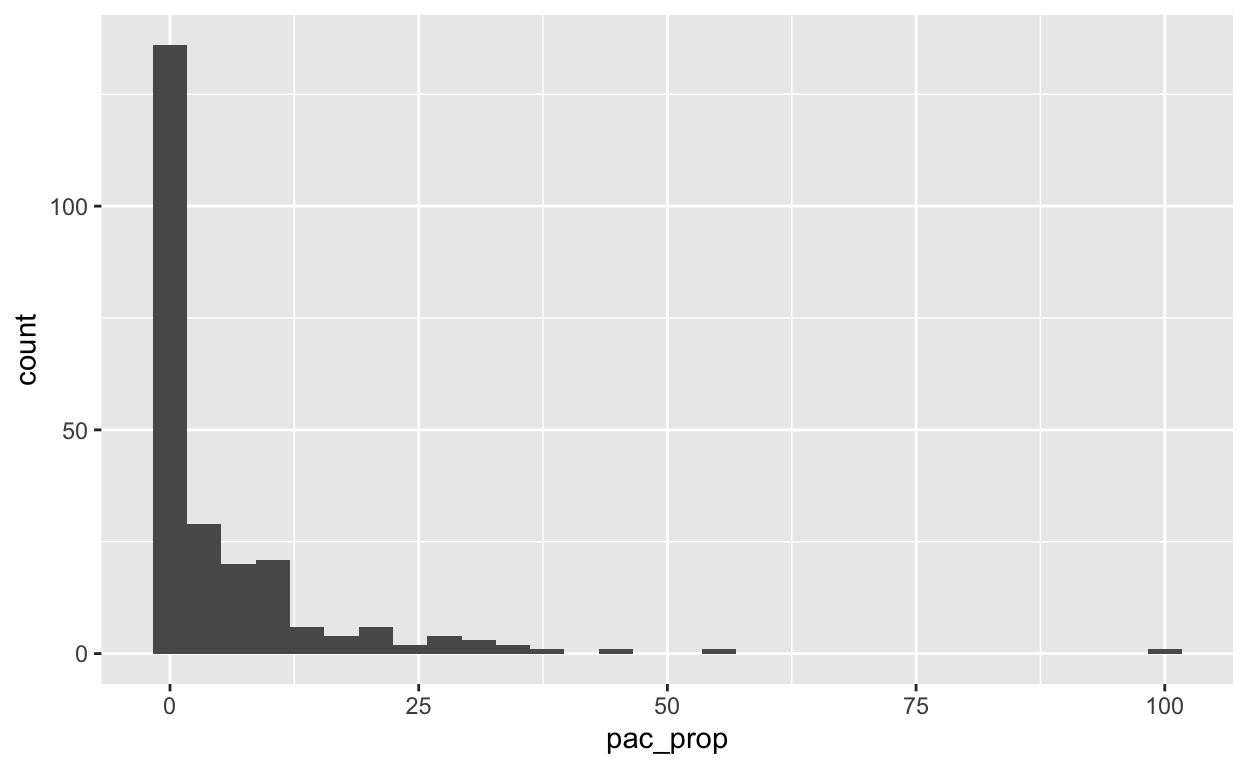
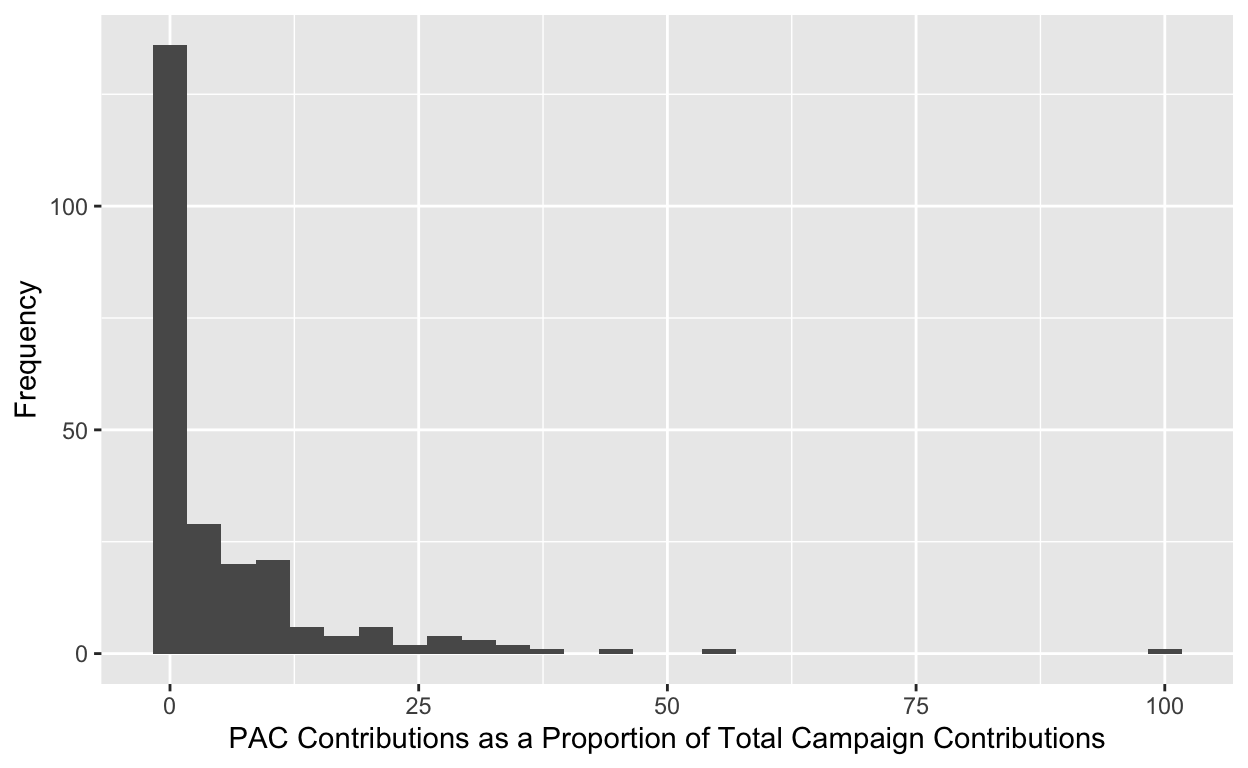
new commit

Changed region(s): [[0.1875, 0.9375, 0.875, 1.0], [0.0, 0.375, 0.0312, 0.5625]]

diff --git a/index.html b/index.html
@@ -1539,7 +1539,9 @@ code span.wa { color: #5e5e5e; font-style: italic; } /* Warning */
 <div class="sourceCode">
 <pre class="sourceCode r"><code class="sourceCode r"><span><span class='va'>campaign_finance</span> <span class='op'>|&gt;</span></span>
 <span>  <span class='fu'><a href='https://ggplot2.tidyverse.org/reference/ggplot.html'>ggplot</a></span><span class='op'>(</span>mapping <span class='op'>=</span> <span class='fu'><a href='https://ggplot2.tidyverse.org/reference/aes.html'>aes</a></span><span class='op'>(</span>x <span class='op'>=</span> <span class='va'>pac_prop</span><span class='op'>)</span><span class='op'>)</span> <span class='op'>+</span></span>
-<span>  <span class='fu'><a href='https://ggplot2.tidyverse.org/reference/geom_histogram.html'>geom_histogram</a></span><span class='op'>(</span><span class='op'>)</span></span></code></pre>
+<span>  <span class='fu'><a href='https://ggplot2.tidyverse.org/reference/geom_histogram.html'>geom_histogram</a></span><span class='op'>(</span><span class='op'>)</span> <span class='op'>+</span></span>
+<span>  <span class='fu'><a href='https://ggplot2.tidyverse.org/reference/labs.html'>labs</a></span><span class='op'>(</span>x <span class='op'>=</span> <span class='st'>"PAC Contributions as a Proportion of Total Campaign Contributions"</span>, y <span class='op'>=</span> <span class='st'>"Frequency"</span>,</span>
+<span>       Title <span class='op'>=</span> <span class='st'>"Frequency of the Proportion of PAC Contributions"</span><span class='op'>)</span></span></code></pre>
 </div>
 <p><img src="index_files/figure-html5/unnamed-chunk-3-1.png" width="624" /></p>
 </div>
